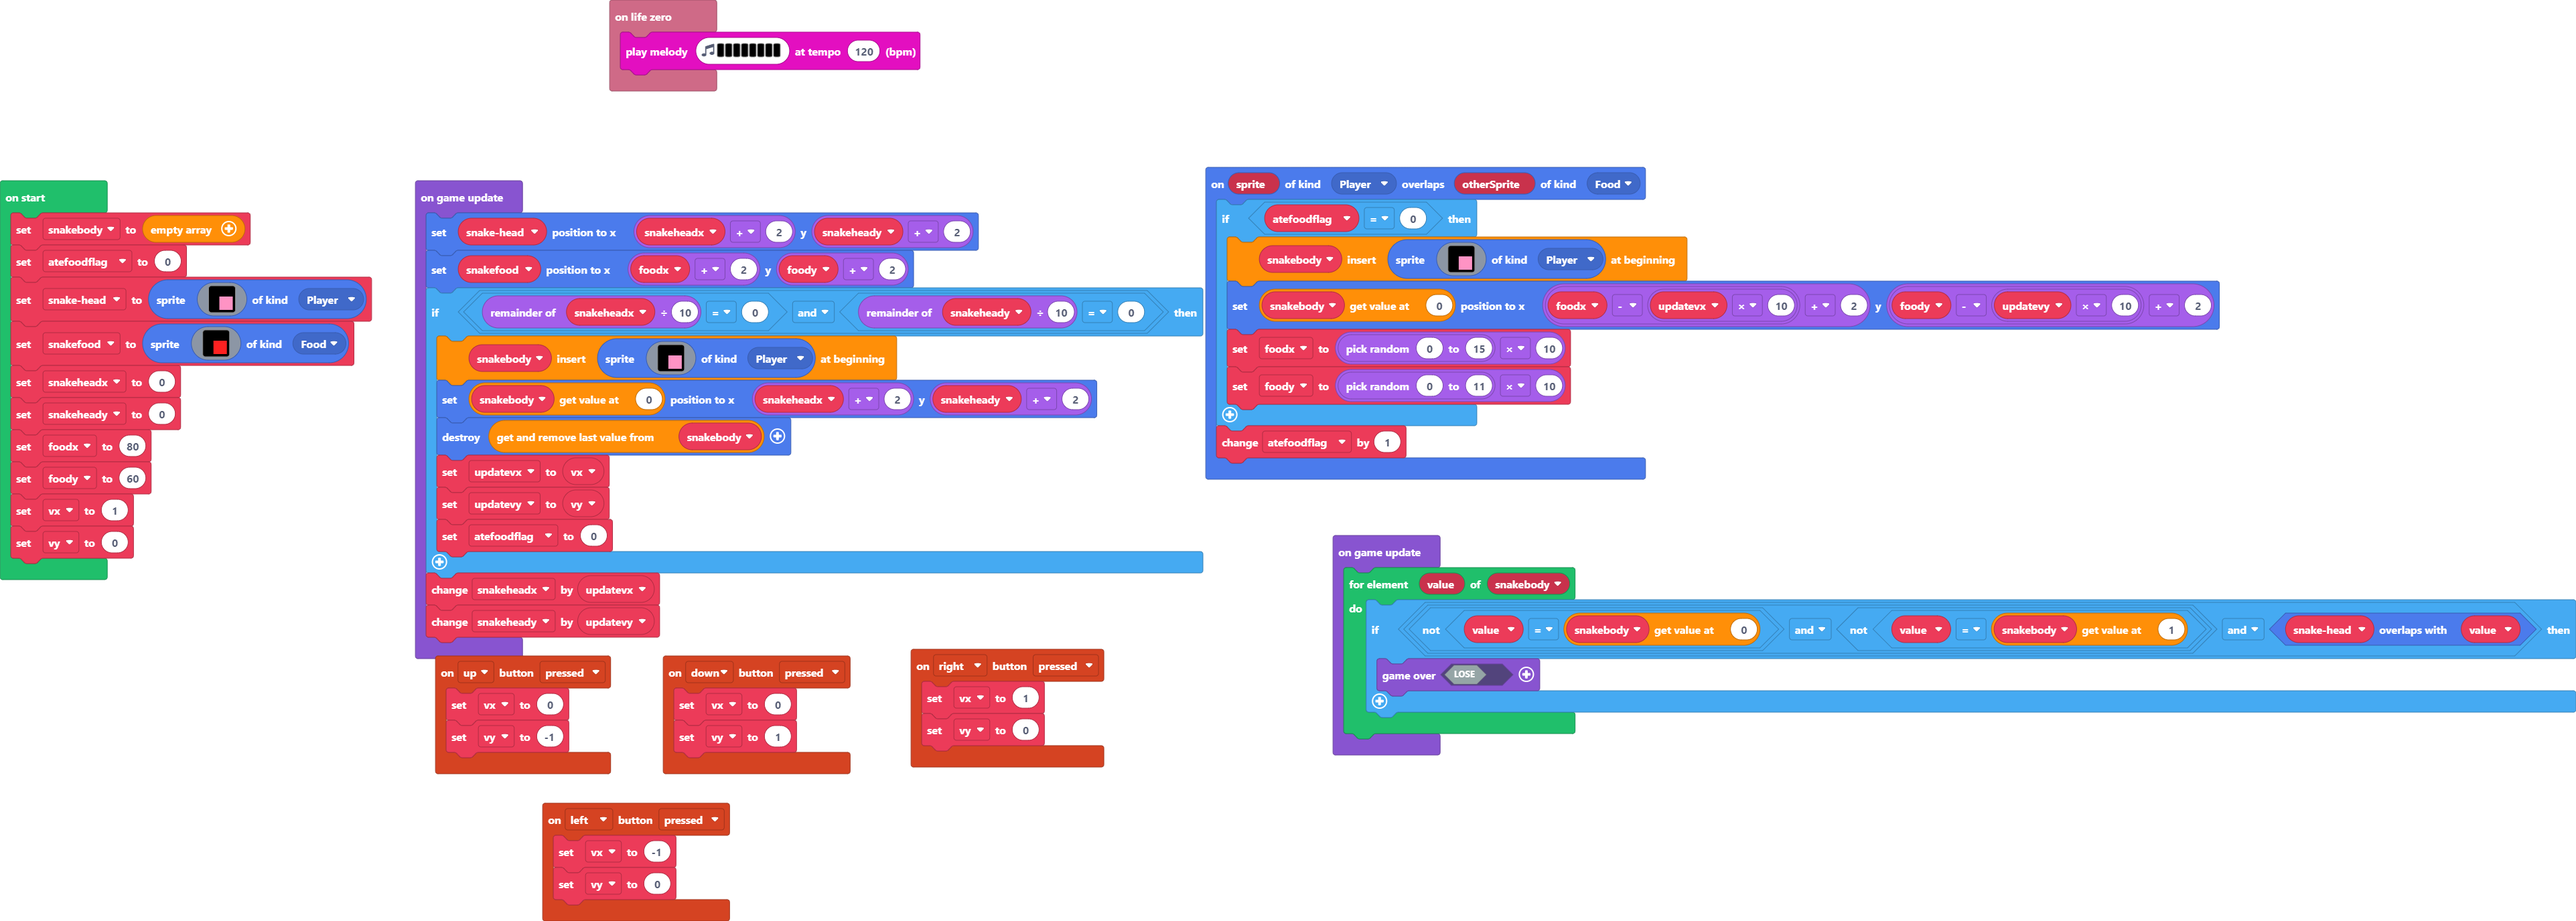
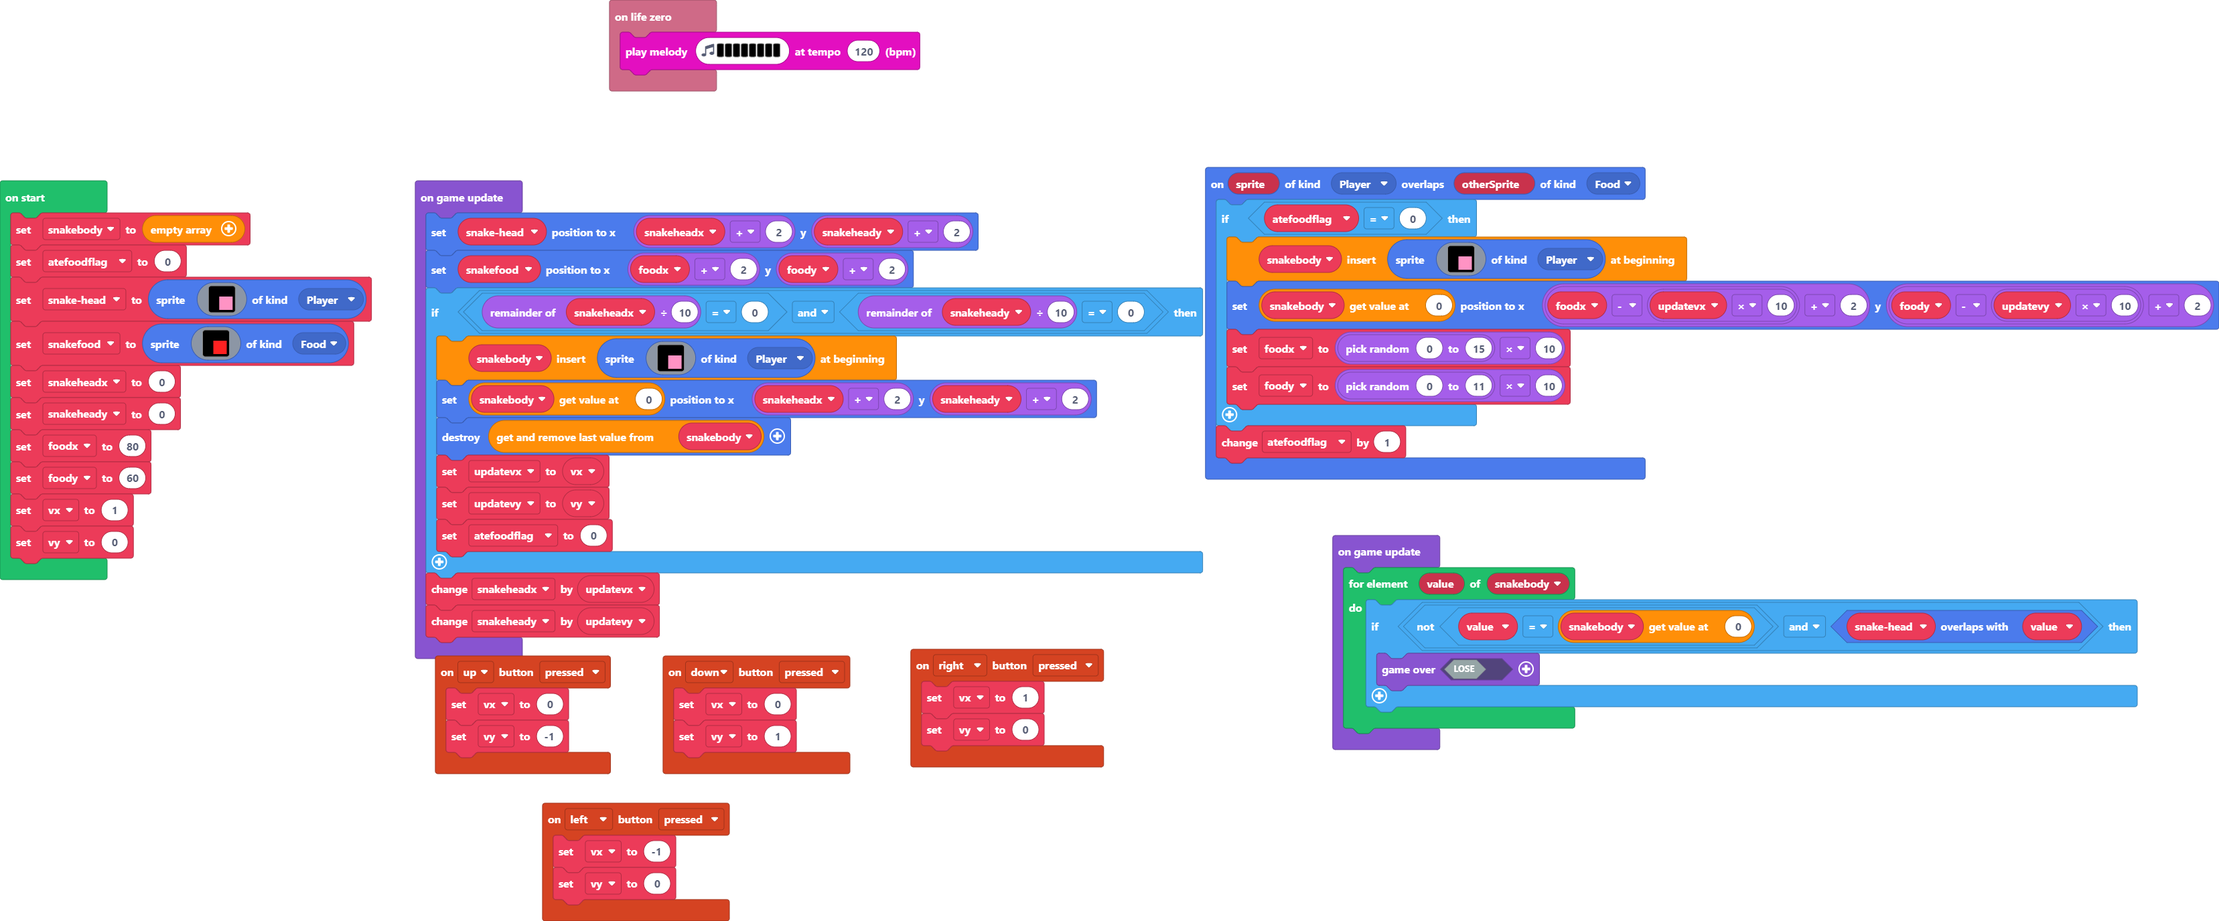
initial commit 9-19

Changed region(s): [[0.0, 0.1562, 1.0, 1.0], [0.2176, 0.0, 0.4353, 0.125]]

diff --git a/main.ts b/main.ts
@@ -128,7 +128,7 @@ game.onUpdate(function () {
 })
 game.onUpdate(function () {
     for (let value of snakebody) {
-        if (!(value == snakebody[0]) && !(value == snakebody[1]) && snakehead.overlapsWith(value)) {
+        if (!(value == snakebody[0]) && snakehead.overlapsWith(value)) {
             game.over(false)
         }
     }
